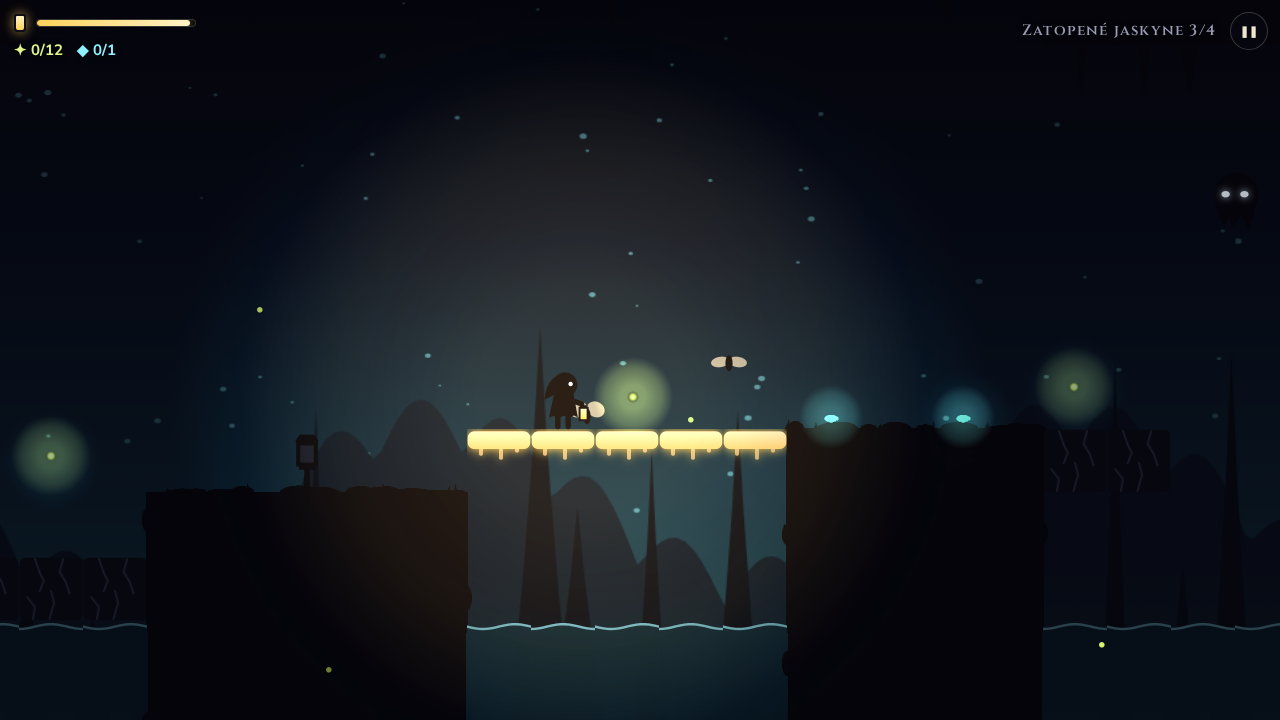
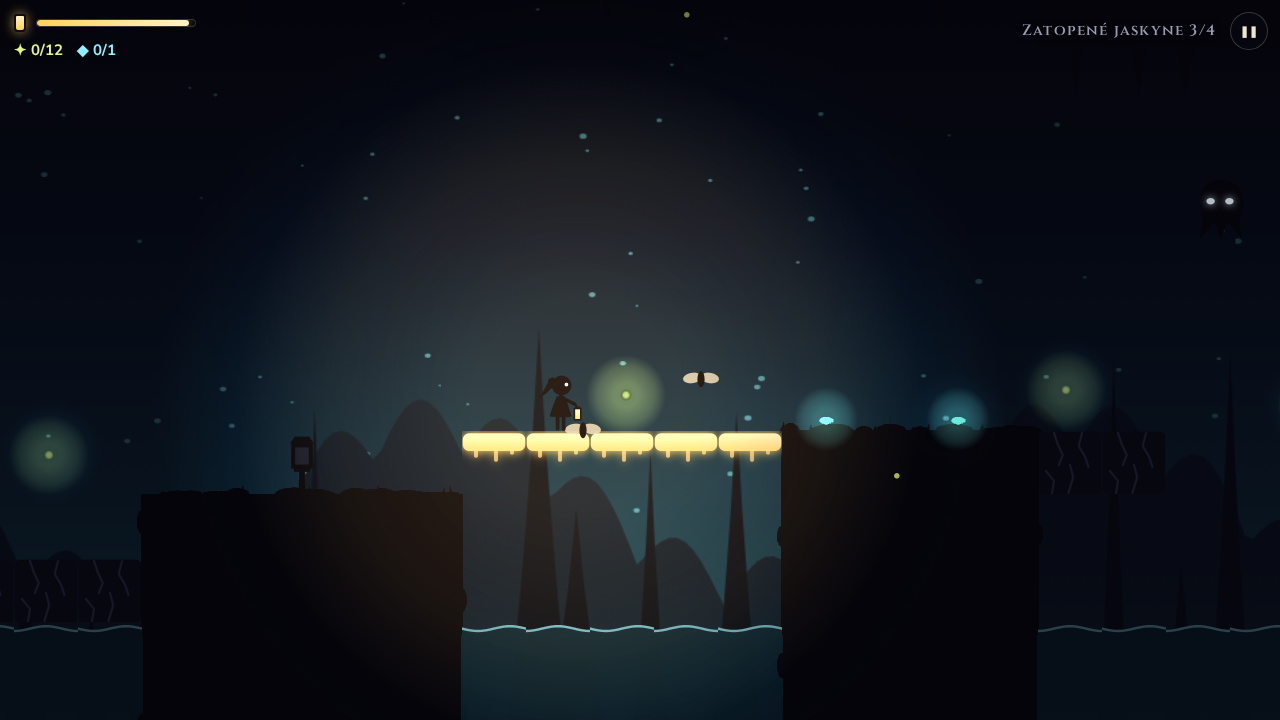
Hlavná postava je drobné útle dievčatko s copom a šatôčkami
Spoločný tvar (render/girl.ts) pre hru aj úvodnú obrazovku; cop veje podľa pohybu.

Claude-Session: https://claude.ai/code/session_01Rh6E1MXbNhhRiwvBzFcm3J

diff --git a/src/render/vector.ts b/src/render/vector.ts
@@ -1,6 +1,7 @@
 import { CanvasSource, Container, Graphics, Texture } from 'pixi.js';
 import { TILE, Tile, tileAt, type Level, type World } from '@/game/level';
 import type { Art } from './art';
+import { drawGirl, type GirlPose } from './girl';
 import { decorOf, noise as pixelNoise, type PlayerFrame } from './common';
 
 /**
@@ -55,80 +56,59 @@ function glowDot(ctx: Ctx, x: number, y: number, r: number, inner: string, outer
 // --- Postavička ---
 const LEGS: Record<PlayerFrame, [number, number][]> = {
   idle: [
-    [4.7, 0],
-    [7.3, 0],
+    [5.9, 0],
+    [7.4, 0],
   ],
   run0: [
-    [4.6, -1.7],
-    [7.4, 1.8],
+    [5.8, -1.6],
+    [7.5, 1.7],
   ],
   run1: [
-    [5.6, -0.3],
-    [6.6, 0.4],
+    [6.4, -0.3],
+    [7, 0.4],
   ],
   run2: [
-    [4.8, -1],
-    [7.2, 1.2],
+    [5.9, -1],
+    [7.3, 1.1],
   ],
   run3: [
-    [5.8, 0.3],
-    [6.4, -0.4],
+    [6.5, 0.3],
+    [6.9, -0.4],
   ],
   jump: [
-    [4.9, 0.9],
-    [7.3, 1.3],
+    [6, 0.8],
+    [7.4, 1.2],
   ],
   fall: [
-    [4.2, -1.9],
-    [7.8, 1.9],
+    [5.6, -1.8],
+    [7.8, 1.8],
   ],
 };
 
+/** Ako veje cop pri jednotlivých pohyboch. */
+const HAIR: Record<PlayerFrame, number> = {
+  idle: 0,
+  run0: 0.8,
+  run1: 0.6,
+  run2: 0.9,
+  run3: 0.6,
+  jump: -0.6,
+  fall: 1,
+};
+
 function player(frame: PlayerFrame | 'breathe'): Texture {
-  const breathe = frame === 'breathe';
-  const legs = LEGS[breathe ? 'idle' : frame]!;
-  const dy = breathe ? 0.45 : 0;
-  return paint(14, 17, (ctx) => {
-    ctx.fillStyle = INK_CSS;
-    ctx.strokeStyle = INK_CSS;
-    // Nohy.
-    const legEnd = frame === 'jump' ? 14.6 : 15.4;
-    for (const [x, lean] of legs) line(ctx, x, 12.6, x + lean, legEnd, 1.35);
-    // Plášť (mierne rozšírený, s rozstrapkaným lemom).
-    ctx.beginPath();
-    ctx.moveTo(3.8, 6.6 + dy);
-    ctx.lineTo(8.6, 6.6 + dy);
-    ctx.lineTo(9.7, 13.1);
-    ctx.lineTo(8.7, 12.6);
-    ctx.lineTo(7.6, 13.3);
-    ctx.lineTo(6.2, 12.7);
-    ctx.lineTo(4.9, 13.3);
-    ctx.lineTo(3.7, 12.7);
-    ctx.lineTo(2.5, 13.2);
-    ctx.closePath();
-    ctx.fill();
-    // Hlava a kapucňa s cípom vzadu.
-    circle(ctx, 6.5, 4.5 + dy, 3.1);
-    ctx.beginPath();
-    ctx.moveTo(4.2, 2.4 + dy);
-    ctx.quadraticCurveTo(1.6, 4.2 + dy, 1.4, 8.2 + dy);
-    ctx.lineTo(4.6, 6.6 + dy);
-    ctx.closePath();
-    ctx.fill();
-    // Ruka s lampášom.
-    line(ctx, 8.1, 8.4 + dy, 10.7, 9.3 + dy, 1.3);
-    line(ctx, 10.9, 9.2 + dy, 11.1, 10.1 + dy, 0.6);
-    ctx.fillRect(9.9, 10 + dy, 2.5, 3.6);
-    ctx.fillRect(10.2, 9.6 + dy, 1.9, 0.6);
-    const g = ctx.createLinearGradient(0, 10.5 + dy, 0, 13.2 + dy);
-    g.addColorStop(0, GLOW);
-    g.addColorStop(1, GOLD);
-    ctx.fillStyle = g;
-    ctx.fillRect(10.4, 10.5 + dy, 1.5, 2.6);
-    // Oko.
-    ctx.fillStyle = '#e8f4ff';
-    circle(ctx, 7.9, 4.3 + dy, 0.55);
-  });
+  const pose = breathePose(frame);
+  return paint(14, 17, (ctx) => drawGirl(ctx, pose));
+}
+
+function breathePose(frame: PlayerFrame | 'breathe'): GirlPose {
+  const f = frame === 'breathe' ? 'idle' : frame;
+  return {
+    legs: LEGS[f]!,
+    legEnd: f === 'jump' ? 14.6 : 15.4,
+    dy: frame === 'breathe' ? 0.4 : 0,
+    wave: HAIR[f]!,
+  };
 }
 
 // --- Tiene a mory ---

diff --git a/src/render/girl.ts b/src/render/girl.ts
@@ -1,0 +1,93 @@
+/**
+ * Postavička: drobné útle dievčatko s copom, v šatôčkach, s lampášom v ruke.
+ * Kreslí sa v súradniciach 14 × 17 (otočené doprava, chodidlá na y = 15.4);
+ * používa ju hra aj úvodná obrazovka.
+ */
+export const GIRL_INK = '#05060b';
+
+/** Stred skla lampáša (kvôli žiare na úvodnej obrazovke). */
+export const GIRL_LANTERN = { x: 10.9, y: 11.9 };
+
+export interface GirlPose {
+  /** Nohy: [x bedra, vychýlenie chodidla]. */
+  legs: [number, number][];
+  /** Výška chodidiel (pri skoku pokrčené). */
+  legEnd: number;
+  /** Nadýchnutie: posun hornej časti tela. */
+  dy: number;
+  /** Vejúci cop (-1 až 1). */
+  wave: number;
+}
+
+export function drawGirl(ctx: CanvasRenderingContext2D, pose: GirlPose): void {
+  const { legs, legEnd, dy, wave } = pose;
+  ctx.fillStyle = GIRL_INK;
+  ctx.strokeStyle = GIRL_INK;
+  ctx.lineCap = 'round';
+  ctx.lineJoin = 'round';
+
+  // Tenké nožičky.
+  ctx.lineWidth = 0.95;
+  for (const [x, lean] of legs) {
+    ctx.beginPath();
+    ctx.moveTo(x, 11.8);
+    ctx.lineTo(x + lean, legEnd);
+    ctx.stroke();
+  }
+
+  // Šatôčky v tvare A s mierne zvlneným lemom.
+  ctx.beginPath();
+  ctx.moveTo(5.7, 7.3 + dy);
+  ctx.lineTo(7.7, 7.3 + dy);
+  ctx.quadraticCurveTo(8.6, 9.6, 9.4, 12.3);
+  ctx.quadraticCurveTo(8.3, 12.8, 7.2, 12.4);
+  ctx.quadraticCurveTo(6.1, 12.8, 5, 12.4);
+  ctx.quadraticCurveTo(4.4, 12.6, 3.9, 12.3);
+  ctx.quadraticCurveTo(4.7, 9.6, 5.7, 7.3 + dy);
+  ctx.fill();
+
+  // Krk a hlava.
+  ctx.fillRect(6.3, 6.4 + dy, 0.9, 1.2);
+  ctx.beginPath();
+  ctx.arc(6.9, 4.6 + dy, 2.45, 0, Math.PI * 2);
+  ctx.fill();
+
+  // Cop: od temena dozadu, vejúci vo vetre.
+  ctx.beginPath();
+  ctx.moveTo(5.4, 3 + dy);
+  ctx.quadraticCurveTo(3.6, 3 + dy, 3 + wave * 0.3, 4.8 + dy);
+  ctx.quadraticCurveTo(2.2 + wave * 0.6, 6.4 + dy, 1.2 + wave, 7.6 + dy);
+  ctx.quadraticCurveTo(2.9 + wave * 0.4, 7 + dy, 3.8, 5.8 + dy);
+  ctx.quadraticCurveTo(4.6, 5 + dy, 5.4, 5.2 + dy);
+  ctx.closePath();
+  ctx.fill();
+  // Mašľa.
+  ctx.beginPath();
+  ctx.ellipse(4.3, 3.3 + dy, 0.9, 0.55, -0.6, 0, Math.PI * 2);
+  ctx.fill();
+
+  // Tenká ručička s lampášom.
+  ctx.lineWidth = 0.85;
+  ctx.beginPath();
+  ctx.moveTo(7.6, 8 + dy);
+  ctx.lineTo(10.2, 9.3 + dy);
+  ctx.stroke();
+  ctx.lineWidth = 0.45;
+  ctx.beginPath();
+  ctx.moveTo(10.4, 9.3 + dy);
+  ctx.lineTo(10.8, 10.2 + dy);
+  ctx.stroke();
+  ctx.fillRect(9.9, 10.2 + dy, 2, 3.2);
+  ctx.fillRect(10.2, 9.9 + dy, 1.4, 0.5);
+  const glass = ctx.createLinearGradient(0, 10.7 + dy, 0, 13 + dy);
+  glass.addColorStop(0, '#fff6c8');
+  glass.addColorStop(1, '#ffd35a');
+  ctx.fillStyle = glass;
+  ctx.fillRect(10.3, 10.6 + dy, 1.2, 2.4);
+
+  // Oko.
+  ctx.fillStyle = '#e8f4ff';
+  ctx.beginPath();
+  ctx.arc(8.1, 4.4 + dy, 0.45, 0, Math.PI * 2);
+  ctx.fill();
+}

diff --git a/src/ui/title.ts b/src/ui/title.ts
@@ -2,6 +2,8 @@
  * Úvodná scéna v siluetovom štýle: súmrak, kopce a smreky, na kopci postavička s lampášom,
  * okolo poletujú svetlušky a v lese občas zažmurkajú oči tieňa.
  */
+import { GIRL_LANTERN, drawGirl } from '@/render/girl';
+
 const INK = '#05060b';
 
 function rand(i: number, seed: number): number {
@@ -167,8 +169,8 @@ export class TitleScene {
     const flicker = 1 + Math.sin(t * 13) * 0.04 + Math.sin(t * 7.1) * 0.03;
     const dy = Math.sin(t * 1.4) * 0.3;
     // Lampáš v ruke (súradnice postavičky 0–14 × 0–17, nohy na y = 15.4).
-    const lx = x + (11.15 - 7) * s;
-    const ly = y + (11.8 - 15.4 + dy) * s;
+    const lx = x + (GIRL_LANTERN.x - 7) * s;
+    const ly = y + (GIRL_LANTERN.y - 15.4 + dy) * s;
 
     // Teplá žiara lampáša.
     const r = 60 * s * flicker;
@@ -215,7 +217,7 @@ export class TitleScene {
     }
   }
 
-  /** Postavička v kapucni (ten istý tvar ako v hre); s = mierka. */
+  /** Postavička (ten istý tvar ako v hre); s = mierka. */
   private drawHero(
     ctx: CanvasRenderingContext2D,
     x: number,
@@ -227,52 +229,15 @@ export class TitleScene {
     ctx.save();
     ctx.translate(x - 7 * s, y - 15.4 * s);
     ctx.scale(s, s);
-    ctx.fillStyle = INK;
-    ctx.strokeStyle = INK;
-    ctx.lineCap = 'round';
-    ctx.lineWidth = 1.35;
-    for (const legX of [4.7, 7.3]) {
-      ctx.beginPath();
-      ctx.moveTo(legX, 12.6);
-      ctx.lineTo(legX, 15.4);
-      ctx.stroke();
-    }
-    ctx.beginPath();
-    ctx.moveTo(3.8, 6.6 + dy);
-    ctx.lineTo(8.6, 6.6 + dy);
-    ctx.lineTo(9.7, 13.1);
-    ctx.lineTo(7.6, 13.3);
-    ctx.lineTo(6.2, 12.7);
-    ctx.lineTo(4.9, 13.3);
-    ctx.lineTo(2.5, 13.2);
-    ctx.closePath();
-    ctx.fill();
-    ctx.beginPath();
-    ctx.arc(6.5, 4.5 + dy, 3.1, 0, Math.PI * 2);
-    ctx.fill();
-    // Cíp kapucne veje vo vetre.
-    const wave = Math.sin(t * 2) * 0.6;
-    ctx.beginPath();
-    ctx.moveTo(4.2, 2.4 + dy);
-    ctx.quadraticCurveTo(1.6 + wave, 4.2 + dy, 1 + wave, 8.4 + dy);
-    ctx.lineTo(4.6, 6.6 + dy);
-    ctx.closePath();
-    ctx.fill();
-    ctx.lineWidth = 1.3;
-    ctx.beginPath();
-    ctx.moveTo(8.1, 8.4 + dy);
-    ctx.lineTo(10.7, 9.3 + dy);
-    ctx.stroke();
-    ctx.fillRect(9.9, 10 + dy, 2.5, 3.6);
-    const glass = ctx.createLinearGradient(0, 10.5 + dy, 0, 13.1 + dy);
-    glass.addColorStop(0, '#fff6c8');
-    glass.addColorStop(1, '#ffd35a');
-    ctx.fillStyle = glass;
-    ctx.fillRect(10.4, 10.5 + dy, 1.5, 2.6);
-    ctx.fillStyle = '#e8f4ff';
-    ctx.beginPath();
-    ctx.arc(7.9, 4.3 + dy, 0.55, 0, Math.PI * 2);
-    ctx.fill();
+    drawGirl(ctx, {
+      legs: [
+        [5.9, 0],
+        [7.4, 0],
+      ],
+      legEnd: 15.4,
+      dy,
+      wave: Math.sin(t * 2) * 0.7,
+    });
     ctx.restore();
   }
 }
